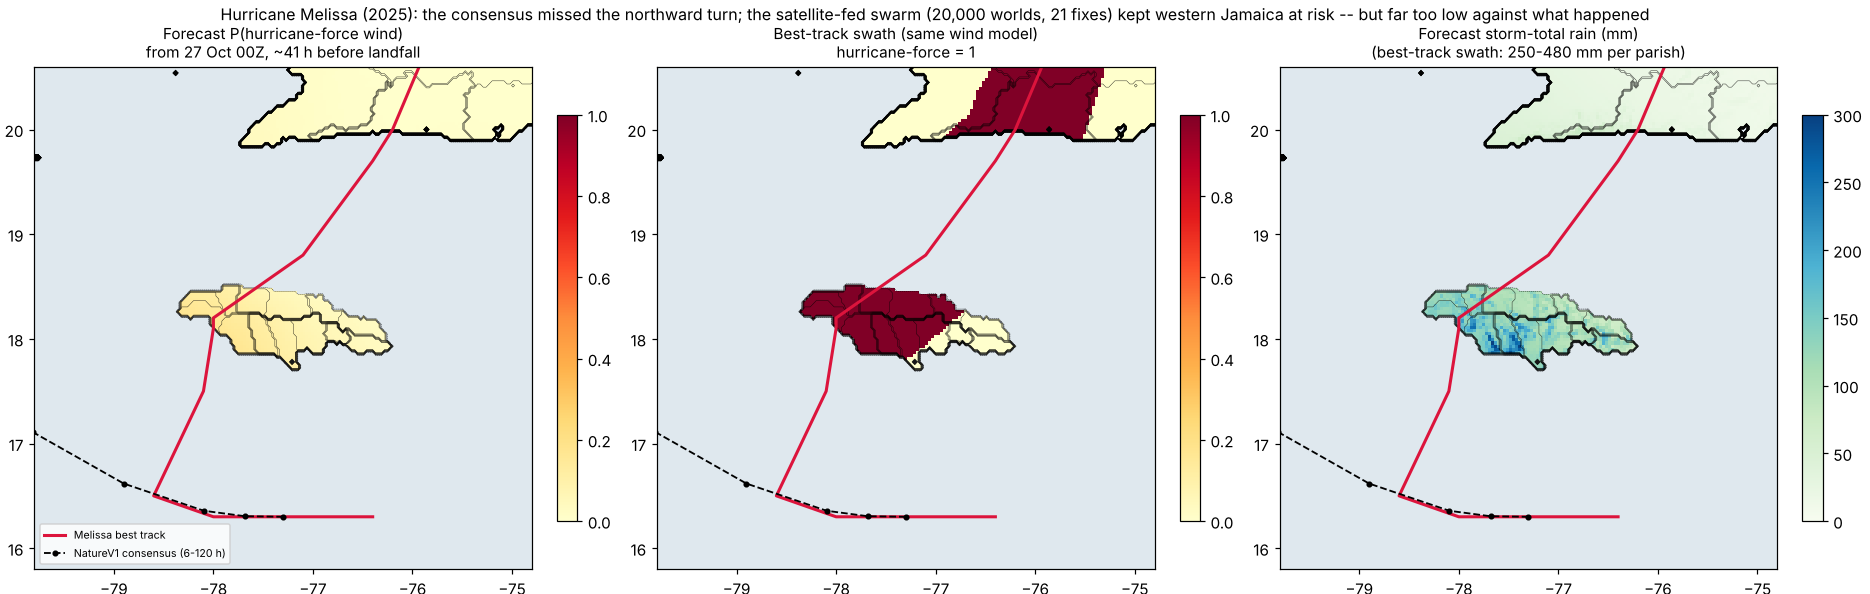
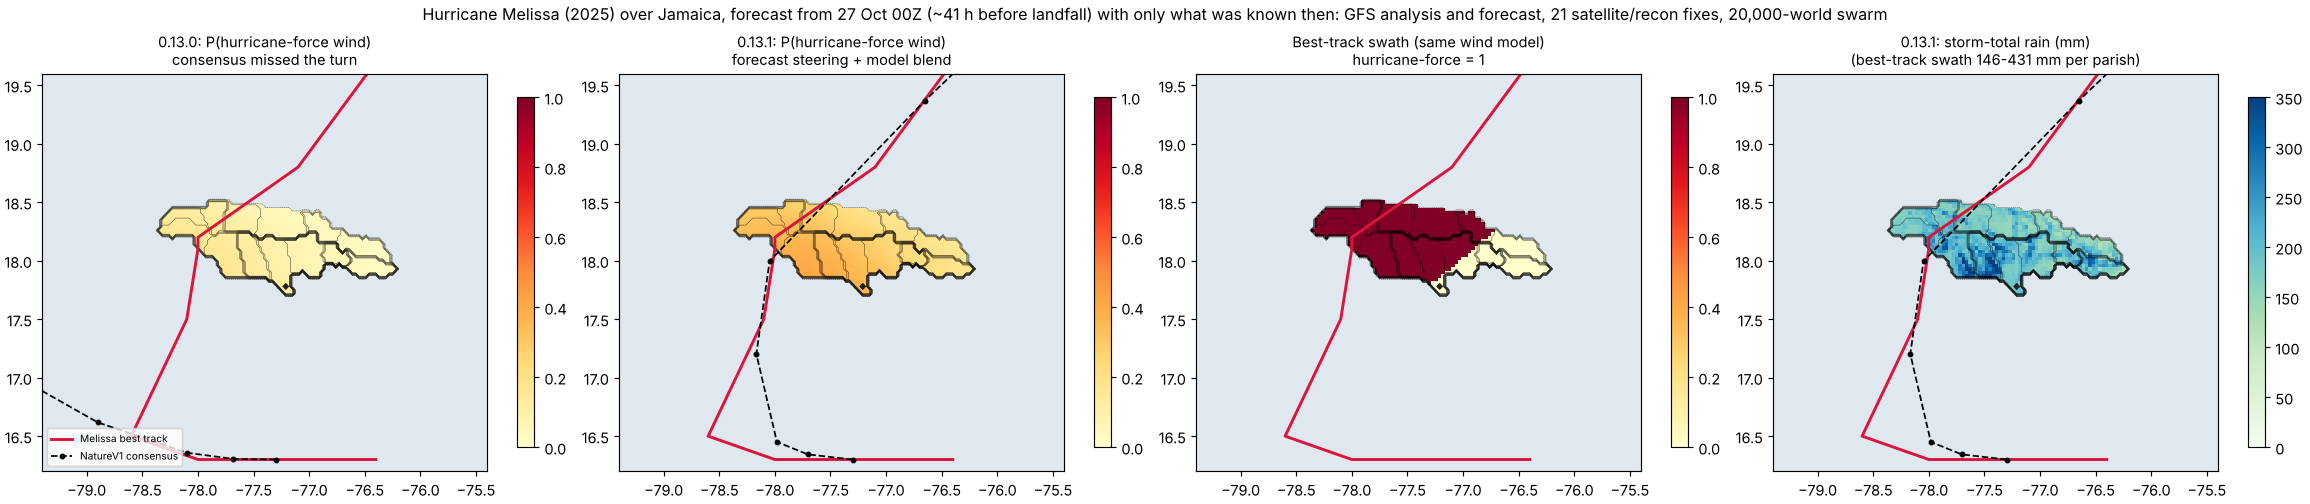
naturev1 0.13.1 (part 3): coefficients, held-out results, Melissa replay
- coefficients: CONSENSUS_FF / CONSENSUS_BASIC_FF (physics + forecast-flow
  consensus blended with the model's own track), their cones, SWARM_FF, the
  rapid-intensification table RI, TREND, and the intensity consensus with its
  P(RI) >= 0.15 regime weights -- all fitted on 2016/2017/2019
- held-out 2018/2020-2022 track error 26/45/72/96/120/184/249/326 km at
  6-120 h (0.13.0: 29/59/127/207/301/512/711/874); ahead of HRES alone to 72 h
- forecast.consensus_table: with no complete table, the one missing the
  smallest share of its members (keeps the forecast-flow blend when, say, the
  12-hour-earlier analysis is missing)
- swarm._strike_counts: worlds far off the grid overflowed the packed index
  (crash, or strikes credited to other worlds); dropped before packing, with a
  regression test
- docs: model card 4.14 and README 0.13.1, Melissa before/after figure

Claude-Session: https://claude.ai/code/session_01J6bgxhzPaCJV6PiUzkT4Vd

diff --git a/natureweather/naturev1/cyclone/coefficients.py b/natureweather/naturev1/cyclone/coefficients.py
@@ -351,19 +351,82 @@ SHIPS = {'leads': [6, 12, 24, 36, 48, 72, 96, 120],
 
 LGEM = {'kappa': [0.01923, -0.00558, 0.00776, 0.00539, -0.00447], 'n': 2.5, 'beta_per_h': 0.04167}
 
-INTENSITY_CONSENSUS = {'members': ['shifor', 'decay_shifor', 'ships', 'lgem'],
+INTENSITY_CONSENSUS = {'members': ['shifor', 'decay_shifor', 'ships', 'lgem', 'trend'],
  'leads': [6, 12, 24, 36, 48, 72, 96, 120],
- 'weights': [[0.2731, 0.3087, 0.3743, 0.0439], [0.0716, 0.3716, 0.4707, 0.0861], [0.0675, 0.3937, 0.3237, 0.2151],
-             [0.1454, 0.3228, 0.2197, 0.3121], [0.1844, 0.2906, 0.1876, 0.3374], [0.3756, 0.113, 0.1716, 0.3398],
-             [0.6057, 0.0, 0.0872, 0.3071], [0.7786, 0.0, 0.0266, 0.1948]],
- 'bias': [0.384, 0.937, 2.24, 3.459, 4.381, 4.751, 4.707, 4.699]}
+ 'weights': [[0.2963, 0.3107, 0.3589, 0.034, 0.0], [0.1115, 0.3591, 0.4283, 0.0725, 0.0285],
+             [0.1283, 0.3046, 0.3108, 0.1728, 0.0834], [0.2161, 0.2448, 0.231, 0.2309, 0.0772],
+             [0.2459, 0.2313, 0.1775, 0.2609, 0.0843], [0.4218, 0.0482, 0.1747, 0.2849, 0.0704],
+             [0.6053, 0.0, 0.0, 0.3057, 0.089], [0.7772, 0.0, 0.0, 0.1576, 0.0652]],
+ 'bias': [0.145, 0.358, 0.926, 1.58, 2.416, 3.415, 4.624, 3.987],
+ 'ri_regime': {'cut': 0.15,
+               'weights': [[0.1906, 0.1903, 0.2317, 0.1861, 0.2012], [0.0, 0.1872, 0.2441, 0.3247, 0.2441],
+                           [0.0, 0.1568, 0.0, 0.6642, 0.179], [0.0, 0.2114, 0.056, 0.7327, 0.0],
+                           [0.0, 0.241, 0.1584, 0.6006, 0.0], [0.2547, 0.1975, 0.0939, 0.4539, 0.0],
+                           [0.5397, 0.0, 0.1165, 0.3437, 0.0], [0.556, 0.0, 0.2696, 0.1367, 0.0377]],
+               'bias': [1.735, 4.03, 8.114, 10.574, 10.424, 8.169, 4.95, 5.435]}}
 
 SWARM = {'priors': {'fix_sigma_km': 20.0},
  'leads': [6, 12, 24, 36, 48, 72, 96, 120],
  'cone_scale': [0.8158, 0.9239, 0.8595, 0.8029, 0.7465, 0.7748, 0.7233, 0.7292],
  'coverage_target': 0.67}
 
-PROVENANCE = {'generated': '2026-10-18 02:12 UTC',
+TREND = {'tau_h': 24.0}
+
+RI = {'features': ['one', 'dv12', 'dv24', 'wind', 'headroom', 'shear', 'rh', 'sst', 'lat', 'land24'],
+ 'threshold_kt': 30.0,
+ 'weights': [-2.79285, 0.3924, 0.1761, 0.15011, 0.30449, -0.62497, 0.04082, 0.55623, -0.06679, -0.14385],
+ 'base_rate': 0.08814,
+ 'cases': 2462}
+
+CONSENSUS_FF = {'members': ['xtrp6', 'cliper', 'analog', 'budget_mix', 'evo12', 'med_anom48', 'int_anom48', 'budget_anom96',
+             'evo_anom48', 'evo_anom96', 'ens48_mean', 'baro_res12', 'baro', 'fflow'],
+ 'leads': [6, 12, 24, 36, 48, 72, 96, 120],
+ 'along': [[0.0, 0.0087, 0.1577, 0.0, 0.0718, 0.0, 0.0, 0.0, 0.0882, 0.5273, 0.0, 0.0, 0.0126, 0.1422],
+           [0.0, 0.0, 0.0, 0.0212, 0.0, 0.0, 0.0, 0.0, 0.0, 0.4357, 0.0, 0.0111, 0.0985, 0.4501],
+           [0.0, 0.0, 0.0, 0.0056, 0.0, 0.0, 0.0, 0.0, 0.0, 0.2311, 0.0, 0.0549, 0.1862, 0.5525],
+           [0.0, 0.0, 0.0, 0.0117, 0.0, 0.0, 0.0, 0.0, 0.0, 0.1623, 0.0, 0.0438, 0.1871, 0.6127],
+           [0.0, 0.0, 0.0, 0.0213, 0.0, 0.0, 0.0, 0.0, 0.0, 0.1453, 0.0, 0.0372, 0.1601, 0.6349],
+           [0.0, 0.0285, 0.0108, 0.0, 0.031, 0.0, 0.0, 0.0, 0.0048, 0.1155, 0.0, 0.0, 0.1243, 0.6602],
+           [0.0, 0.1508, 0.0, 0.0, 0.0587, 0.0, 0.0, 0.0, 0.0793, 0.0, 0.0, 0.0, 0.095, 0.5997],
+           [0.0, 0.3733, 0.0, 0.0, 0.0034, 0.0, 0.0, 0.0, 0.07, 0.0333, 0.0, 0.0, 0.024, 0.5025]],
+ 'cross': [[0.0, 0.0, 0.1638, 0.0603, 0.0, 0.0, 0.0, 0.0, 0.0, 0.3952, 0.0, 0.0, 0.0238, 0.357],
+           [0.0, 0.0, 0.0, 0.0956, 0.0, 0.0, 0.0, 0.0, 0.0, 0.3636, 0.0, 0.0, 0.0474, 0.4935],
+           [0.0, 0.0, 0.0, 0.0239, 0.0, 0.0, 0.0, 0.0, 0.0, 0.2741, 0.0, 0.0, 0.1138, 0.5882],
+           [0.0, 0.0, 0.0, 0.0134, 0.0, 0.0, 0.0, 0.0, 0.0, 0.2249, 0.0, 0.0431, 0.1019, 0.6167],
+           [0.0, 0.0, 0.0052, 0.0, 0.0, 0.0, 0.0, 0.0, 0.0, 0.2066, 0.0, 0.0612, 0.1102, 0.6167],
+           [0.0, 0.0, 0.0607, 0.0, 0.0, 0.0, 0.0, 0.0, 0.0, 0.1837, 0.0, 0.0, 0.1287, 0.6269],
+           [0.0, 0.0, 0.1465, 0.0, 0.0, 0.0, 0.0, 0.0, 0.018, 0.1575, 0.0, 0.0, 0.0809, 0.5971],
+           [0.0, 0.2311, 0.0819, 0.0, 0.0, 0.0, 0.0, 0.0, 0.0334, 0.0913, 0.0, 0.0, 0.0545, 0.5079]],
+ 'reference': 1,
+ 'model_blend': {'leads': [6, 12, 24, 36, 48, 72, 96, 120],
+                 'alpha': [0.2, 0.45, 0.7, 0.8, 0.85, 0.9, 0.9, 0.9],
+                 'offset_tau_h': None}}
+
+CONSENSUS_BASIC_FF = {'members': ['xtrp6', 'cliper', 'budget_mix', 'evo12', 'baro_res12', 'baro', 'fflow'],
+ 'leads': [6, 12, 24, 36, 48, 72, 96, 120],
+ 'along': [[0.0, 0.0, 0.3882, 0.4795, 0.0, 0.05, 0.0814], [0.0, 0.0, 0.2915, 0.1357, 0.0271, 0.1281, 0.4319],
+           [0.0, 0.0, 0.1056, 0.0835, 0.0599, 0.2064, 0.5701], [0.0, 0.0, 0.0667, 0.0698, 0.0457, 0.1972, 0.6306],
+           [0.0, 0.0, 0.0667, 0.0637, 0.048, 0.159, 0.6526], [0.0, 0.0699, 0.0125, 0.0906, 0.0, 0.1297, 0.6682],
+           [0.0, 0.2002, 0.0, 0.0748, 0.0, 0.0968, 0.6103], [0.0, 0.4415, 0.0, 0.0274, 0.0, 0.0235, 0.5166]],
+ 'cross': [[0.0, 0.0, 0.3901, 0.1183, 0.0, 0.0259, 0.4656], [0.0, 0.0, 0.3888, 0.0, 0.0, 0.0599, 0.5514],
+           [0.0, 0.0, 0.195, 0.0297, 0.0056, 0.1175, 0.6523], [0.0, 0.0, 0.1129, 0.0558, 0.0836, 0.0832, 0.6645],
+           [0.0, 0.0, 0.0664, 0.0702, 0.1365, 0.0669, 0.66], [0.0198, 0.0612, 0.015, 0.0825, 0.0, 0.1543, 0.6671],
+           [0.0178, 0.2063, 0.0, 0.0545, 0.0, 0.0868, 0.6346], [0.0, 0.3901, 0.0, 0.0224, 0.0, 0.055, 0.5324]],
+ 'reference': 1,
+ 'model_blend': {'leads': [6, 12, 24, 36, 48, 72, 96, 120],
+                 'alpha': [0.2, 0.45, 0.7, 0.8, 0.85, 0.9, 0.9, 0.9],
+                 'offset_tau_h': None}}
+
+CONE_KM_FF = {'leads': [6, 12, 24, 36, 48, 72, 96, 120], 'radius_km': [27.0, 48.4, 80.9, 109.3, 137.7, 212.0, 304.9, 412.7]}
+
+CONE_KM_BASIC_FF = {'leads': [6, 12, 24, 36, 48, 72, 96, 120], 'radius_km': [27.1, 47.9, 80.1, 109.1, 137.4, 213.6, 303.1, 410.4]}
+
+SWARM_FF = {'priors': {'fix_sigma_km': 20.0},
+ 'leads': [6, 12, 24, 36, 48, 72, 96, 120],
+ 'cone_scale': [0.7006, 0.7004, 0.5164, 0.4108, 0.3379, 0.2734, 0.2885, 0.3051],
+ 'coverage_target': 0.67}
+
+PROVENANCE = {'generated': '2026-10-18 03:41 UTC',
  'CLIPER': 'IBTrACS v04r01 best tracks 1980-2014, all basins (82,816 fixes at 00/06/12/18 UTC)',
  'SHIFOR': 'IBTrACS v04r01 best tracks 1980-2014, all basins',
  'CONSENSUS': 'hindcasts of the 2016, 2017 and 2019 seasons (3,053 forecasts, NA EP WP SI SP)',
@@ -376,4 +439,19 @@ PROVENANCE = {'generated': '2026-10-18 02:12 UTC',
  'SHIPS': 'hindcasts of the 2016, 2017 and 2019 seasons',
  'LGEM': 'hindcasts of the 2016, 2017 and 2019 seasons',
  'INTENSITY_CONSENSUS': 'hindcasts of the 2016, 2017 and 2019 seasons',
- 'SWARM': 'hindcasts of the 2016, 2017 and 2019 seasons'}
+ 'SWARM': 'hindcasts of the 2016, 2017 and 2019 seasons',
+ 'CONSENSUS_FF': "hindcasts of the 2016, 2017 and 2019 seasons with ECMWF HRES forecast steering and HRES's own "
+                 'storm tracks (WeatherBench 2, 1.5 degrees); blend weights fitted on leave-one-season-out consensus '
+                 'tracks',
+ 'CONSENSUS_BASIC_FF': "hindcasts of the 2016, 2017 and 2019 seasons with ECMWF HRES forecast steering and HRES's "
+                       'own storm tracks (WeatherBench 2, 1.5 degrees); blend weights fitted on leave-one-season-out '
+                       'consensus tracks',
+ 'CONE_KM_FF': "hindcasts of the 2016, 2017 and 2019 seasons with ECMWF HRES forecast steering and HRES's own storm "
+               'tracks (WeatherBench 2, 1.5 degrees); blend weights fitted on leave-one-season-out consensus tracks',
+ 'CONE_KM_BASIC_FF': "hindcasts of the 2016, 2017 and 2019 seasons with ECMWF HRES forecast steering and HRES's own "
+                     'storm tracks (WeatherBench 2, 1.5 degrees); blend weights fitted on leave-one-season-out '
+                     'consensus tracks',
+ 'SWARM_FF': "hindcasts of the 2016, 2017 and 2019 seasons with ECMWF HRES forecast steering and HRES's own storm "
+             'tracks (WeatherBench 2, 1.5 degrees); blend weights fitted on leave-one-season-out consensus tracks',
+ 'RI': 'logistic regression, P(+30 kt in 24 h), hindcasts of the 2016, 2017 and 2019 seasons',
+ 'TREND': 'hindcasts of the 2016, 2017 and 2019 seasons'}

diff --git a/natureweather/tests/test_forecastflow.py b/natureweather/tests/test_forecastflow.py
@@ -141,3 +141,19 @@ def test_gfs_forecast_flow_tracks_the_model_storm_and_keeps_the_environment(monk
         assert geo.great_circle_km(*track[k], 20.0 + h / 12.0, -60.0 - h / 12.0) < 120.0, f"lost GFS's storm at {h} h"
     u, v = flow.velocity(_vortex_env(), np.array([25.0]), np.array([-65.0]), 60.0, depth=0.5)
     assert abs(u[0] + 4.0) < 0.3 and abs(v[0] - 2.0) < 0.3, "the environment survives the vortex removal"
+
+
+def test_physics_forecast_uses_the_forecast_flow_consensus_and_leans_on_the_model_late():
+    from naturev1.cyclone.forecast import physics_forecast
+
+    case = _case(motion_kmh=(-18.0, 0.0))
+    env = _vortex_env(u=-5.0, v=0.0)
+    flow = _flow(env, turn_hour=48)
+    model = np.stack(geo.move(case.lat, case.lon, -18.0 * np.minimum(np.asarray(LEADS, float), 48.0),
+                              20.0 * np.maximum(np.asarray(LEADS, float) - 48.0, 0.0)), -1)     # west, then north
+    plain = physics_forecast(case, env, intensity=False)
+    steered = physics_forecast(case, env, forecast_flow=flow, model_track=model, intensity=False)
+    assert plain["consensus_table"] == "CONSENSUS_BASIC" and steered["consensus_table"] == "CONSENSUS_BASIC_FF"
+    k120 = LEADS.index(120)
+    assert geo.great_circle_km(*steered["track"][k120], *model[k120]) < 0.3 * geo.great_circle_km(*plain["track"][k120], *model[k120])
+    assert np.isfinite(steered["members"]["fflow"]).all()

diff --git a/natureweather/tests/test_swarm.py b/natureweather/tests/test_swarm.py
@@ -131,3 +131,19 @@ def test_physics_forecast_carries_a_swarm_centred_on_the_consensus():
     assert abs(sum(v["probability"] for v in sw["scenarios"].values()) - 1.0) < 1e-9
     assert sw["strike_probability"].max() <= 1.0 + 1e-9 and sw["strike_probability"].max() > 0.5
     assert np.all(np.diff(sw["cone_km"][1:]) > 0), "the cone widens with lead"
+
+
+def test_strike_counts_ignore_worlds_that_leave_the_grid():
+    # Worlds that run far off the map (a recurving storm racing north) must neither crash the counter nor credit
+    # their strikes to other worlds' cells.
+    from naturev1.swarm.core import _strike_counts
+
+    glat, glon = np.arange(10.0, 20.01, 0.5), np.arange(-80.0, -70.01, 0.5)
+    inside = np.stack([np.full(9, 15.0), np.linspace(-79.0, -71.0, 9)], -1)
+    away = np.stack([np.linspace(15.0, 60.0, 9), np.full(9, -75.0)], -1)          # leaves the grid to the north
+    tracks = np.stack([inside] * 3 + [away] * 3)
+    counts = _strike_counts(tracks, glat, glon, 111.0, np.full(6, 1.0 / 6))
+    assert counts.max() <= 1.0 + 1e-9
+    k = int(np.argmin(np.abs(glat - 15.0)))
+    assert abs(counts[k, int(np.argmin(np.abs(glon + 77.0)))] - 0.5) < 1e-9, "only the three worlds that pass there"
+    assert abs(counts[k, int(np.argmin(np.abs(glon + 75.0)))] - 1.0) < 1e-9, "all six pass the centre"

diff --git a/natureweather/naturev1/cyclone/forecast.py b/natureweather/naturev1/cyclone/forecast.py
@@ -100,6 +100,7 @@ def consensus_table(members: dict) -> dict:
     """
     from . import coefficients
 
+    best, best_share = None, -1.0
     for name in ("CONSENSUS_FF", "CONSENSUS_BASIC_FF", "CONSENSUS", "CONSENSUS_BASIC"):
         table = getattr(coefficients, name, None)
         if table is None:
@@ -107,7 +108,12 @@ def consensus_table(members: dict) -> dict:
         have = [np.isfinite(np.asarray(members.get(m, [[np.nan]]))[0]).all() for m in table["members"]]
         if all(have):
             return {**table, "name": name}
-    return {**coefficients.CONSENSUS_BASIC, "name": "CONSENSUS_BASIC"}
+        # none complete (say, no analysis 12 hours earlier): the table missing the smallest share of its members,
+        # renormalised over the rest, in the same order of preference
+        if np.mean(have) > best_share:
+            best, best_share = name, float(np.mean(have))
+    name = best or "CONSENSUS_BASIC"
+    return {**getattr(coefficients, name), "name": name}
 
 
 def _intensity(case, env, ctx, track, leads) -> dict:

diff --git a/natureweather/naturev1/swarm/core.py b/natureweather/naturev1/swarm/core.py
@@ -818,7 +818,10 @@ def _strike_counts(track: np.ndarray, glat: np.ndarray, glon: np.ndarray, radius
         n = t.shape[0]
         i = np.round((t[..., 0] - glat[0]) / di_step)
         j = np.round((t[..., 1] - glon[0]) / dj_step)
+        # points farther off the grid than the radius cannot strike it -- and would overflow the packed index below
         ok = np.isfinite(i) & np.isfinite(j)
+        ok &= (np.nan_to_num(i, nan=-1e9) >= -ri) & (np.nan_to_num(i, nan=1e9) < ni + ri)
+        ok &= (np.nan_to_num(j, nan=-1e9) >= -rj) & (np.nan_to_num(j, nan=1e9) < nj + rj)
         pid = np.broadcast_to(np.arange(n)[:, None], i.shape)[ok].astype(np.int64)
         cells = np.unique(pid * (ni + 2 * ri) * (nj + 2 * rj) + (i[ok].astype(np.int64) + ri) * (nj + 2 * rj)
                           + (j[ok].astype(np.int64) + rj))

diff --git a/natureweather/naturev1/swarm/__init__.py b/natureweather/naturev1/swarm/__init__.py
@@ -18,7 +18,9 @@ plot            maps of the swarm, its worldlines and its impacts
 ==============  ======================================================================================================
 
 It works with :func:`naturev1.cyclone.physics_forecast` (``swarm=N``): the physics consensus stays the best single
-track, and the swarm, re-centred on it, supplies the probabilities around it.
+track, and the swarm, re-centred on it, supplies the probabilities around it. Given a dynamical model's forecast
+steering (:class:`naturev1.cyclone.forecastflow.ForecastFlow`, read from GFS by :mod:`analysis`), the worlds are
+carried through it, which is what makes their recurvature probabilities skilful.
 """
 
 from .core import Swarm, SwarmFields, SwarmForecast, SwarmPriors, classify_tracks, swarm_products

diff --git a/natureweather/HF_README.md b/natureweather/HF_README.md
@@ -52,6 +52,10 @@ pipeline_tag: other
 > The **swarm sandbox** takes satellite fixes minute by minute and maps impacts parish by parish across the whole Caribbean.
 > On unseen seasons its stall probabilities are skilful, its cone is not better than the fixed cone, and on Hurricane
 > Melissa it kept western Jamaica at risk but far too low — [section 4.13](#413-013-the-swarm-sandbox-the-satellite-path-and-caribbean-impacts).
+> **0.13.1** steers the track with a dynamical model's forecast winds (GFS live, HRES in the hindcasts) and blends
+> in the model's own track. Held-out track errors fall by 12% to 65% (72 h: 512 → 184 km), slightly ahead of HRES
+> alone to 72 h. On Melissa the track now curves north into Jamaica, but the intensity is still far too low —
+> [section 4.14](#414-0131-the-turns-and-rapid-intensification).
 
 NatureV1 is an 89-million-parameter model of the atmosphere that forecasts global weather out to five days and,
 for tropical cyclones, where a storm will go, how strong it will get, whether it will intensify rapidly, and
@@ -620,12 +624,97 @@ the best track to then, and the 21 merged satellite, recon, microwave and scatte
   a storm that reached 160 kt: rapid intensification to Category 5 is beyond these statistical models.
 - From 26 October, extrapolation beat the consensus from 12 to 48 h while Melissa crawled.
 
-<img src="melissa_jamaica.png" alt="Melissa 2025 over Jamaica: forecast hurricane-wind probability, best-track swath and forecast rain" width="100%">
+Section 4.14 shows the same forecast after the 0.13.1 upgrade, which fixes the missed turn.
 
 The molab cell (`molab_swarm_cell.py`) runs all of this for every active NHC storm, or replays any storm since
 2021, on one GPU. Research model, not an operational forecast: storm surge is not modelled. Boundaries are from
 geoBoundaries (OpenStreetMap and others; attribution travels with the map) and terrain from the Terrarium tiles
 on AWS Open Data.
+
+### 4.14 0.13.1: the turns, and rapid intensification
+
+A storm turns when its steering changes: a trough digs in, a ridge erodes. The analysis, even with its 12-hour
+trend, cannot see a trough that is still 2,000 km and two days away. A dynamical model's forecast can. 0.13.1
+uses that forecast the way NHC's Beta and Advection Model does, and blends in the model's own track:
+
+- **Forecast-flow member.** The storm is carried through the model's forecast 850-400 hPa winds, every 12 hours
+  to 120 h, plus beta drift and the part of its present motion those winds do not explain. At each forecast hour,
+  the model's own copy of the storm is found in its pressure field and removed from its winds, so the storm is
+  steered by the environment rather than by itself.
+- **Model blend.** The consensus, now with the forecast-flow member, is pulled toward the model's own track by
+  one weight per lead, fitted on the tuning seasons: 0.2 at 6 h, 0.7 at 24 h and 0.9 by day 3. One weight per lead
+  transferred cleanly between seasons. Fifteen free per-member weights did not, at 96-120 h.
+- **Live**, the model is GFS: `GFSAnalysis.forecast_flow` reads its forecast winds and pressure from NOAA's
+  bucket, about 150 MB per storm, cached. **In the hindcasts** it is ECMWF HRES from WeatherBench 2, at
+  1.5 degrees in both cases.
+
+**Track, held-out seasons 2018 and 2020-2022** (4,188 forecasts at 6 h, 1,103 at 120 h; every gain over the old
+consensus has its whole 90% storm-bootstrap interval above zero):
+
+| lead (h) | 6 | 12 | 24 | 36 | 48 | 72 | 96 | 120 |
+|---|---|---|---|---|---|---|---|---|
+| 0.13.0 consensus (km) | 29 | 59 | 127 | 207 | 301 | 512 | 711 | 874 |
+| HRES's own track (km) | 49 | 60 | 79 | 100 | 123 | 187 | 251 | 326 |
+| **0.13.1 consensus (km)** | **26** | **45** | **72** | **96** | **120** | **184** | **249** | **326** |
+| gain over 0.13.0 | 12% | 24% | 43% | 54% | 60% | 64% | 65% | 63% |
+| gain over HRES alone | 48% | 25% | 8% | 4% | 2% | 2% | 1% (n.s.) | 0% (n.s.) |
+
+- **Storms that turned.** On the 561 forecasts whose true track turned by more than 45 degrees between 24 and
+  72 h, errors fell from 131 / 326 / 601 / 1,048 km to 71 / 119 / 209 / 363 km at 24 / 48 / 72 / 120 h.
+- **Cone.** Recalibrated for the new consensus (27 km at 6 h to 413 km at 120 h), it covers 63-70% of held-out
+  positions against a 67% target.
+- **Swarm scenarios.** The swarm's worlds are now steered by the same forecast winds, which markedly improves
+  its scenario probabilities. Measured on 1,200 held-out forecasts (287 storms with a complete 120-hour truth):
+
+  | Brier skill vs climatology | recurve | stall | steady | loop |
+  |---|---|---|---|---|
+  | swarm, analysis steering | +0.05 | +0.09 | +0.01 | +0.01 |
+  | swarm, forecast steering | **+0.26** | **+0.20** | **+0.14** | **−0.25** |
+
+  Recurvature probabilities are now reliable: forecasts of 33% verified 41% of the time, and 63% verified 67%.
+  Loops got worse. The swarm now forecasts them three times too often (6.4% against 2.1% observed), so treat its
+  loop probability as unreliable. The swarm's cone still sizes uncertainty no better than the fixed one (rank
+  correlation with error 0.09-0.22).
+
+**Intensity: a rapid-intensification switch.** A logistic model gives the probability of a 30 kt rise in 24 hours
+from SHIPS-RII-style predictors: recent change, intensity, headroom below potential intensity, shear, humidity,
+ocean heat, latitude and land. On the held-out seasons its Brier skill over climatology is +0.10 and its
+AUC 0.81, and it is reliable up to about 50%. When it reaches 15%, the intensity consensus switches to weights fitted on
+such storms. Those lean on LGEM and a new **trend member**, which carries the last 24 hours' change forward
+with a 24-hour memory, capped at the potential intensity and decayed over land.
+
+On all held-out storms the switch lowers the mean absolute error by 0.9-2.6% from 6 to 72 h, every lead
+significant, and is neutral at 96-120 h. On the 72 forecasts with P(RI) ≥ 30% it lowers the error by 5-10%
+from 6 to 36 h. `physics_forecast` now also returns `ri_probability` and `intensity_regime`.
+
+**Melissa, replayed again** with only what was known at the time:
+
+| track error (km), lead (h) | 6 | 12 | 24 | 36 | 48 | 72 | 96 | 120 |
+|---|---|---|---|---|---|---|---|---|
+| from 27 Oct 00Z, 0.13.0 | 2 | 12 | 35 | 187 | 392 | 892 | 1,834 | 3,383 |
+| from 27 Oct 00Z, **0.13.1** | 5 | 17 | 91 | **55** | **79** | **246** | **369** | **1,011** |
+| from 26 Oct 00Z, 0.13.0 | 14 | 29 | 69 | 149 | 236 | 588 | 992 | 1,794 |
+| from 26 Oct 00Z, **0.13.1** | 17 | 28 | 69 | 140 | 215 | **294** | **394** | **375** |
+
+- **From 27 October**, about 41 hours before landfall, the track now curves north into Jamaica. The forecast puts
+  the storm at 18.0N 78.0W at 36 h, against an actual 17.5N 78.1W.
+- **Parishes.** Every parish now gets a 24-47% chance of hurricane-force wind, up from 13-20%. St Elizabeth,
+  Manchester and Westmoreland are highest. The four parishes the best track gave only tropical-storm winds
+  (St Andrew, St Thomas, Kingston and Portland) are the four lowest.
+- **Rain.** The forecast is 165-261 mm per parish, against a best-track swath of 146-431 mm (it was 110-175 mm in
+  0.13.0).
+- **From 26 October**, extrapolation still wins to 48 h while Melissa crawled, because GFS turned it north too
+  early that day.
+- **Intensity is still missed.** From 26 October, P(RI) was 26% and the rapid weights were used, yet the
+  forecast was 107 kt at 24 h against 125 kt observed, and 100 kt at 48 h against 155. Taking an already intense
+  storm to Category 5 is still beyond these statistical models.
+
+<img src="melissa_jamaica.png" alt="Melissa 2025 over Jamaica from 27 Oct 00Z: hurricane-wind probability in 0.13.0 and 0.13.1, best-track swath, and 0.13.1 rain" width="100%">
+
+**What to keep in mind.** Much of the new track skill comes from a dynamical model: HRES in these hindcasts, GFS
+live. GFS has historically tracked storms somewhat less accurately than HRES, so live errors will likely be
+larger than this table, and the cone may run slightly narrow. Without GFS's forecast, for example if NOAA's
+bucket is unreachable, the forecast falls back to the 0.13.0 consensus and cone, and the run says so.
 
 ## 5. Limitations
 

diff --git a/natureweather/README.md b/natureweather/README.md
@@ -194,6 +194,31 @@ the track. On Melissa the consensus missed the northward turn. The swarm kept we
 for hurricane-force wind where the storm brought it to most of the island, because a 160 kt Category 5 was forecast
 at 111-125 kt. `molab_swarm_cell.py` is the one-cell molab runbook for live storms.
 
+## 0.13.1: the turns, and rapid intensification
+
+The track now uses a dynamical model's **forecast** winds, the way NHC's Beta and Advection Model does. They come
+from GFS live and from ECMWF HRES in the hindcasts. The model's own storm is removed at every forecast hour. The
+consensus is then blended with the model's own track, one weight per lead. That lets the track see a trough two
+days out, which the analysis cannot. Held-out seasons 2018 and 2020-2022, km:
+
+| lead (h) | 6 | 12 | 24 | 36 | 48 | 72 | 96 | 120 |
+|---|---|---|---|---|---|---|---|---|
+| 0.13.0 consensus | 29 | 59 | 127 | 207 | 301 | 512 | 711 | 874 |
+| HRES's own track | 49 | 60 | 79 | 100 | 123 | 187 | 251 | 326 |
+| **0.13.1 consensus** | **26** | **45** | **72** | **96** | **120** | **184** | **249** | **326** |
+
+On storms that turned by more than 45 degrees, the 72 h error fell from 601 to 209 km. The swarm, steered by the
+same forecast, now gives skilful recurvature probabilities: Brier skill +0.26, up from +0.05. Its loop
+probabilities got worse (−0.25), so treat them as unreliable.
+
+For intensity, a rapid-intensification probability (Brier skill +0.10, AUC 0.81) switches the intensity consensus
+to weights fitted on such storms. That lowers the error by 1-3% overall and by 5-10% when P(RI) ≥ 30%, at 6-36 h.
+
+On Melissa from 27 October, the track now curves north into Jamaica: 55 / 79 / 246 km errors at 36 / 48 / 72 h,
+against 187 / 392 / 892 km before. Every parish gets a 24-47% chance of hurricane-force wind, up from 13-20%. The
+intensity is still far too low (118 kt at 24 h against 155 kt). The live track leans on GFS, which has
+historically erred somewhat more than HRES. Details are in section 4.14 of the model card.
+
 ## Not trained
 
 No weights here have seen real data. The architecture, losses, ingest and training loop are complete and
